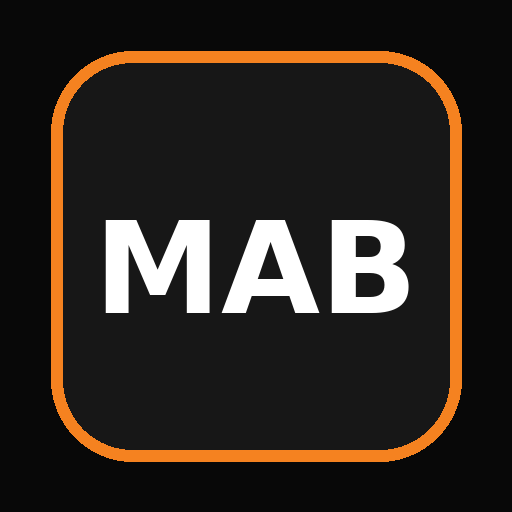
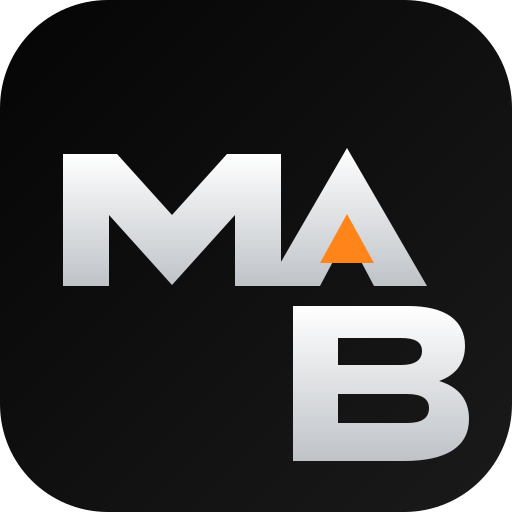
Add files via upload

diff --git a/mab-treino-v300.js b/mab-treino-v300.js
@@ -1,0 +1,201 @@
+import { repo } from './repositories.js';
+const VERSION = '2.10.0';
+const sleep = ms => new Promise(r => setTimeout(r, ms));
+async function getWorkoutContext(){const sessions=await repo.all('workoutSessions');const current=sessions.find(s=>s.status==='in_progress');if(!current)return null;const items=(await repo.all('planItems')).filter(x=>x.cycleId===current.cycleId&&x.groupCode===current.groupCode&&x.active).sort((a,b)=>a.order-b.order);const exercises=await repo.all('exercises');const index=Math.min(current.currentIndex||0,Math.max(items.length-1,0));const item=items[index];if(!item)return{current,items,exercises,index,item:null};return{current,items,exercises,index,item};}
+async function getPreviousSeries(context){const{current,item}=context;if(!item)return[];const sessions=(await repo.all('workoutSessions')).filter(s=>s.status==='completed'&&s.id!==current.id&&s.groupCode===current.groupCode).sort((a,b)=>(b.finishedAt||b.startedAt||'').localeCompare(a.finishedAt||a.startedAt||''));const sets=await repo.all('executedSets');for(const session of sessions){const match=sets.filter(s=>s.sessionId===session.id&&s.exerciseId===item.exerciseId&&s.completed).sort((a,b)=>a.setNumber-b.setNumber);if(match.length)return match;}return[];}
+function escapeHtml(value){return String(value).replace(/[&<>'"]/g,c=>({'&':'&amp;','<':'&lt;','>':'&gt;',"'":'&#39;','"':'&quot;'}[c]));}
+function insertVideoLink(context){const ex=context.exercises.find(e=>e.id===context.item.exerciseId);document.querySelector('#mabExerciseVideo')?.remove();if(!ex?.videoUrl)return;const h2=[...document.querySelectorAll('h2')].find(x=>x.textContent.trim()===ex.name);if(!h2)return;const a=document.createElement('a');a.id='mabExerciseVideo';a.href=ex.videoUrl;a.target='_blank';a.rel='noopener noreferrer';a.textContent='▶ Ver execução';a.style.cssText='display:inline-flex;margin-top:8px;color:#ff851b;font-weight:700;text-decoration:none;font-size:16px;';h2.insertAdjacentElement('afterend',a);}
+function ensureInfoArea(nextButton){let area=document.querySelector('#mabNextExerciseInfo');if(!area){area=document.createElement('div');area.id='mabNextExerciseInfo';area.className='mab-next-exercise';nextButton.parentElement?.insertBefore(area,nextButton);}return area;}
+function ensureV293Styles(){if(document.querySelector('#mabV293Styles'))return;const style=document.createElement('style');style.id='mabV293Styles';style.textContent=`
+.set-row{display:grid!important;grid-template-columns:72px minmax(0,1fr) minmax(0,1fr) minmax(0,1fr) 108px;column-gap:10px;row-gap:8px;align-items:end}
+.set-row>strong{grid-column:1;grid-row:1;align-self:center}
+.set-row>label:nth-of-type(1){grid-column:2;grid-row:1}
+.set-row>label:nth-of-type(2){grid-column:3;grid-row:1}
+.set-row>label:nth-of-type(3){grid-column:4;grid-row:1}
+.set-row>.done{grid-column:5;grid-row:1;align-self:end}
+.mab-previous-row{grid-column:1/-1;display:grid;grid-template-columns:72px minmax(0,1fr) minmax(0,1fr) minmax(0,1fr) 108px;column-gap:10px;align-items:center;padding:2px 0 8px;color:#aaa;font-size:14px}
+.mab-previous-row .mab-label{font-size:12px;text-transform:uppercase;letter-spacing:.04em}
+.mab-previous-row .mab-value{text-align:center;font-weight:700;color:#d0d0d0}
+@media(max-width:540px){.set-row,.mab-previous-row{grid-template-columns:64px minmax(0,1fr) minmax(0,1fr) minmax(0,1fr) 72px;column-gap:8px}.set-row input{width:100%;min-width:0}.set-row>.done{width:72px;min-width:72px}.mab-previous-row{font-size:13px}}
+`;document.head.appendChild(style);}
+async function enhanceWorkout(){if(!document.querySelector('[data-action="save-set"]'))return;ensureV293Styles();const context=await getWorkoutContext();if(!context?.item)return;const{items,exercises,index}=context;insertVideoLink(context);const previous=await getPreviousSeries(context);const savedCurrent=(await repo.all('executedSets')).filter(s=>s.sessionId===context.current.id&&s.exerciseId===context.item.exerciseId);document.querySelectorAll('.set-row').forEach((row,rowIndex)=>{const seriesNumber=rowIndex+1;const alreadySaved=savedCurrent.some(s=>s.setNumber===seriesNumber&&s.completed);const prior=previous.find(s=>s.setNumber===seriesNumber);const kg=row.querySelector('[data-set="weight"]');const reps=row.querySelector('[data-set="reps"]');const rir=row.querySelector('[data-set="rir"]');[kg,reps,rir].forEach(input=>{if(input)input.style.fontSize='16px';});row.querySelector('.mab-load-reference')?.remove();row.querySelector('.mab-previous-row')?.remove();if(prior){const ref=document.createElement('div');ref.className='mab-previous-row';ref.setAttribute('aria-label',`Execução anterior da série ${seriesNumber}`);ref.innerHTML=`<span class="mab-label">Anterior</span><span class="mab-value">${escapeHtml(prior.reps??'-')}</span><span class="mab-value">${escapeHtml(prior.weight??'-')}</span><span class="mab-value">${escapeHtml(prior.rir??'-')}</span><span></span>`;row.appendChild(ref);}if(alreadySaved)row.classList.add('mab-series-saved');else row.classList.remove('mab-series-saved');});const nextButton=document.querySelector('[data-action="next"]');if(!nextButton)return;const isLast=index>=items.length-1;const info=ensureInfoArea(nextButton);if(isLast){nextButton.hidden=true;info.hidden=true;info.innerHTML='';}else{nextButton.hidden=false;info.hidden=false;const nextItem=items[index+1];const nextExercise=exercises.find(e=>e.id===nextItem?.exerciseId);nextButton.disabled=false;nextButton.textContent='Próximo →';nextButton.removeAttribute('aria-disabled');info.innerHTML=`<span class="muted">A seguir</span><strong>${escapeHtml(nextExercise?.name||'Próximo exercício')}</strong>`;}}
+function restoreViewport(){const active=document.activeElement;if(active&&typeof active.blur==='function')active.blur();document.body.style.zoom='1';document.documentElement.style.zoom='1';window.scrollTo({top:Math.max(0,window.scrollY-1),behavior:'smooth'});}
+document.addEventListener('click',async event=>{const save=event.target.closest('[data-action="save-set"]');if(!save)return;await sleep(120);restoreViewport();await sleep(180);await enhanceWorkout();},true);
+const observer=new MutationObserver(()=>{clearTimeout(window.__mabV293Timer);window.__mabV293Timer=setTimeout(()=>enhanceWorkout().catch(console.error),60);});observer.observe(document.querySelector('#app')||document.body,{childList:true,subtree:true});window.addEventListener('routechange',()=>setTimeout(()=>enhanceWorkout().catch(console.error),80));window.addEventListener('focus',()=>setTimeout(()=>enhanceWorkout().catch(console.error),80));document.documentElement.dataset.mabVersion=VERSION;setTimeout(()=>enhanceWorkout().catch(console.error),100);
+
+
+const SHORT_WORKOUT_SECONDS=300;
+async function deleteWorkoutSession(session){
+  const sets=(await repo.all('executedSets')).filter(x=>x.sessionId===session.id);
+  for(const set of sets)await repo.remove('executedSets',set.id);
+  const timers=(await repo.all('restTimers')).filter(x=>x.sessionId===session.id);
+  for(const timer of timers)await repo.remove('restTimers',timer.id);
+  await repo.remove('workoutSessions',session.id);
+}
+function sessionSeconds(session){
+  const start=Date.parse(session.startedAt||'');
+  const end=Date.parse(session.finishedAt||new Date().toISOString());
+  return Number.isFinite(start)&&Number.isFinite(end)?Math.max(0,Math.floor((end-start)/1000)):0;
+}
+async function handleShortWorkoutFinish(event){
+  const button=event.target.closest('[data-action="finish"]');
+  if(!button)return;
+  const session=(await repo.all('workoutSessions')).find(x=>x.status==='in_progress');
+  if(!session||sessionSeconds(session)>=SHORT_WORKOUT_SECONDS)return;
+  event.preventDefault();event.stopPropagation();event.stopImmediatePropagation();
+  const seconds=sessionSeconds(session);
+  const keep=confirm(`Este treino teve apenas ${fmtShort(seconds)}. Deseja manter o registro?\n\nOK = manter\nCancelar = apagar o treino iniciado por engano`);
+  if(keep){
+    session.status='completed';session.finishedAt=new Date().toISOString();
+    await repo.put('workoutSessions',session);
+  }else{
+    await deleteWorkoutSession(session);
+  }
+  document.querySelector('.bottom-nav [data-route="dashboard"]')?.click();
+}
+function fmtShort(total){const m=Math.floor(total/60),s=total%60;return `${String(m).padStart(2,'0')}:${String(s).padStart(2,'0')}`;}
+async function enhanceShortWorkoutHistory(){
+  if(!document.querySelector('.dashboard-layout'))return;
+  const sessions=(await repo.all('workoutSessions')).filter(x=>x.status==='completed'&&sessionSeconds(x)<SHORT_WORKOUT_SECONDS).sort((a,b)=>(b.startedAt||'').localeCompare(a.startedAt||''));
+  const rows=[...document.querySelectorAll('.dashboard-layout .exercise-item')];
+  for(const row of rows){
+    if(row.querySelector('.mab-delete-short'))continue;
+    const title=row.querySelector('strong')?.textContent||'';
+    const detail=row.querySelector('.muted')?.textContent||'';
+    const group=(title.match(/Treino\s+([A-D])/i)||[])[1];
+    const date=(detail.match(/\d{4}-\d{2}-\d{2}/)||[])[0];
+    const duration=(detail.match(/(\d{2}):(\d{2})/)||[]);
+    if(!group||!date||!duration)continue;
+    const seconds=Number(duration[1])*60+Number(duration[2]);
+    if(seconds>=SHORT_WORKOUT_SECONDS)continue;
+    const session=sessions.find(x=>x.groupCode===group.toUpperCase()&&(x.startedAt||'').slice(0,10)===date&&Math.abs(sessionSeconds(x)-seconds)<=1);
+    if(!session)continue;
+    row.querySelector('.orange')?.remove();
+    const button=document.createElement('button');
+    button.className='ghost mab-delete-short';button.textContent='Apagar';button.dataset.sessionId=session.id;
+    button.setAttribute('aria-label',`Apagar Treino ${group} de ${date}`);
+    row.appendChild(button);
+  }
+}
+// v2.10.1: listener antigo desativado; finalizacao e tratada pelo resumo pos-treino
+// document.addEventListener('click',handleShortWorkoutFinish,true);
+document.addEventListener('click',async event=>{
+  const button=event.target.closest('.mab-delete-short');if(!button)return;
+  event.preventDefault();event.stopPropagation();
+  const session=await repo.get('workoutSessions',button.dataset.sessionId);if(!session)return;
+  if(!confirm(`Apagar definitivamente este Treino ${session.groupCode} de ${fmtShort(sessionSeconds(session))}?`))return;
+  await deleteWorkoutSession(session);
+  button.closest('.exercise-item')?.remove();
+  window.dispatchEvent(new Event('routechange'));
+},true);
+const shortHistoryObserver=new MutationObserver(()=>{clearTimeout(window.__mabShortHistoryTimer);window.__mabShortHistoryTimer=setTimeout(()=>enhanceShortWorkoutHistory().catch(console.error),100);});
+shortHistoryObserver.observe(document.querySelector('#app')||document.body,{childList:true,subtree:true});
+setTimeout(()=>enhanceShortWorkoutHistory().catch(console.error),150);
+
+// v2.10.0 - fechamento inteligente, perfil e calorias editaveis
+const MAB_V2100='3.0.0';
+const PROFILE_KEY='mab-physical-profile-v2100';
+const FINISH_PATCH='mab-finish-v2100';
+function loadPhysicalProfile(){try{return JSON.parse(localStorage.getItem(PROFILE_KEY)||'{}')}catch{return {}}}
+function savePhysicalProfile(p){localStorage.setItem(PROFILE_KEY,JSON.stringify(p))}
+async function currentWeight(){const rows=(await repo.all('bodyAssessments')).filter(x=>x.weight!=null&&x.date).sort((a,b)=>b.date.localeCompare(a.date));return Number(rows[0]?.weight)||null}
+function workoutMET(){return 5.0}
+function estimateCalories(weight,seconds){if(!weight||!seconds)return null;return Math.round(workoutMET()*weight*(seconds/3600))}
+function closeSummaryModal(){document.querySelector('#mabFinishOverlay')?.remove()}
+async function saveWorkoutSummary(session){const caloriesEl=document.querySelector('#mabFinishCalories');const sourceEl=document.querySelector('#mabFinishSource');const notesEl=document.querySelector('#mabFinishNotes');const estimated=Number(document.querySelector('#mabEstimatedCalories')?.dataset.value)||null;session.estimatedCalories=estimated;session.calories=caloriesEl?.value?Number(caloriesEl.value):null;session.calorieSource=sourceEl?.value||'Estimativa MAB';session.calorieMethod='MET 5.0 x peso x duracao';session.notes=(notesEl?.value||'').trim();session.status='completed';session.finishedAt=session.finishedAt||new Date().toISOString();await repo.put('workoutSessions',session);closeSummaryModal();document.querySelector('.bottom-nav [data-route="dashboard"]')?.click();}
+async function openWorkoutSummary(session){if(document.querySelector('#mabFinishOverlay'))return;session.finishedAt=session.finishedAt||new Date().toISOString();const weight=await currentWeight();const seconds=sessionSeconds(session);const estimated=estimateCalories(weight,seconds);const overlay=document.createElement('div');overlay.id='mabFinishOverlay';overlay.style.cssText='position:fixed;inset:0;z-index:9999;background:rgba(0,0,0,.82);display:flex;align-items:flex-end;justify-content:center;padding:16px;box-sizing:border-box';overlay.innerHTML=`<div style="width:min(620px,100%);max-height:90vh;overflow:auto;background:#151515;border:1px solid #3a3a3a;border-radius:22px;padding:20px;color:#fff;box-sizing:border-box"><div style="color:#ff851b;font-size:13px;font-weight:800;letter-spacing:.08em">TREINO CONCLUÍDO</div><h2 style="margin:6px 0 4px">Treino ${escapeHtml(session.groupCode||'')}</h2><div style="color:#aaa;margin-bottom:18px">Duração: ${fmtShort(seconds)}${weight?` · Peso de referência: ${weight} kg`:''}</div><div style="background:#0d0d0d;border:1px solid #333;border-radius:16px;padding:16px;margin-bottom:14px"><div style="color:#aaa;font-size:13px">Estimativa MAB</div><strong id="mabEstimatedCalories" data-value="${estimated||''}" style="display:block;font-size:28px;color:#ff851b;margin:4px 0">${estimated?`≈ ${estimated} kcal`:'Sem peso atual para estimar'}</strong><small style="color:#888">Estimativa inicial por MET, peso atual e duração. O valor abaixo pode ser substituído pelo wearable.</small></div><label style="display:block;margin:12px 0 6px;color:#bbb">Calorias registradas</label><div style="display:flex;gap:8px;align-items:center"><input id="mabFinishCalories" inputmode="numeric" type="number" min="0" max="10000" value="${estimated||''}" style="flex:1;background:#0d0d0d;color:#fff;border:1px solid #444;border-radius:12px;padding:14px;font-size:16px"><span>kcal</span></div><label style="display:block;margin:14px 0 6px;color:#bbb">Fonte</label><select id="mabFinishSource" style="width:100%;background:#0d0d0d;color:#fff;border:1px solid #444;border-radius:12px;padding:14px;font-size:16px"><option>Estimativa MAB</option><option>Apple Watch</option><option>Polar</option><option>Garmin</option><option>Outro</option></select><label style="display:block;margin:14px 0 6px;color:#bbb">Observações do treino</label><textarea id="mabFinishNotes" rows="4" placeholder="Opcional" style="width:100%;box-sizing:border-box;background:#0d0d0d;color:#fff;border:1px solid #444;border-radius:12px;padding:14px;font-size:16px"></textarea><button id="mabSaveFinish" style="width:100%;margin-top:16px;background:#ff851b;color:#080808;border:0;border-radius:14px;padding:15px;font-size:16px;font-weight:800">Salvar e concluir</button></div>`;document.body.appendChild(overlay);document.querySelector('#mabSaveFinish').onclick=()=>saveWorkoutSummary(session).catch(console.error)}
+async function isLastSeriesComplete(){const ctx=await getWorkoutContext();if(!ctx?.item||ctx.index!==ctx.items.length-1)return false;const sets=(await repo.all('executedSets')).filter(x=>x.sessionId===ctx.current.id&&x.exerciseId===ctx.item.exerciseId&&x.completed);return sets.length>=Number(ctx.item.sets||0)}
+async function maybeFinishAfterRestLegacy(){const session=(await repo.all('workoutSessions')).find(x=>x.status==='in_progress');if(!session)return false;if(!(await isLastSeriesComplete()))return false;const running=(await repo.all('restTimers')).find(x=>x.sessionId===session.id&&x.status==='running');if(running&&remaining(running.targetEndAt)>0)return false;if(running){running.status='completed';await repo.put('restTimers',running)}await openWorkoutSummary(session);return true}
+setInterval(()=>{if(document.querySelector('#mabFinishOverlay'))return;maybeFinishAfterRest().catch(()=>{})},1000);
+document.addEventListener('click',async e=>{const b=e.target.closest('[data-action="skip-rest"]');if(!b)return;setTimeout(()=>maybeFinishAfterRest().catch(()=>{}),80)},true);
+// intercepta finalizar normal e preserva regra de treino curto
+ document.addEventListener('click',async e=>{const b=e.target.closest('[data-action="finish"]');if(!b||b.dataset[FINISH_PATCH])return;const session=(await repo.all('workoutSessions')).find(x=>x.status==='in_progress');if(!session)return;e.preventDefault();e.stopPropagation();e.stopImmediatePropagation();const seconds=sessionSeconds(session);if(seconds<SHORT_WORKOUT_SECONDS){const keep=confirm(`Este treino teve apenas ${fmtShort(seconds)}. Deseja manter o registro?\n\nOK = manter\nCancelar = apagar o treino iniciado por engano`);if(!keep){await deleteWorkoutSession(session);document.querySelector('.bottom-nav [data-route="dashboard"]')?.click();return}}await openWorkoutSummary(session)},true);
+function enhanceSettingsProfile(){const modal=document.querySelector('#modalContent');if(!modal||!modal.querySelector('#exportBtn')||modal.querySelector('#mabProfileSection'))return;const p=loadPhysicalProfile();const block=document.createElement('div');block.id='mabProfileSection';block.className='stack';block.innerHTML=`<hr style="border-color:#333;width:100%"><h3>Perfil físico</h3><p class="muted">Usado como base para futuras estimativas. O peso vem da avaliação corporal mais recente.</p><label class="field">Data de nascimento<input id="mabBirthDate" type="date" value="${escapeHtml(p.birthDate||'')}"></label><label class="field">Altura (cm)<input id="mabHeight" type="number" inputmode="numeric" min="100" max="250" value="${escapeHtml(p.heightCm||'')}"></label><label class="field">Sexo para cálculo fisiológico<select id="mabSex"><option value="">Não informado</option><option value="female" ${p.sex==='female'?'selected':''}>Feminino</option><option value="male" ${p.sex==='male'?'selected':''}>Masculino</option></select></label><button class="secondary" id="mabSaveProfile">Salvar perfil</button>`;modal.querySelector('.stack')?.appendChild(block);block.querySelector('#mabSaveProfile').onclick=()=>{savePhysicalProfile({birthDate:block.querySelector('#mabBirthDate').value,heightCm:Number(block.querySelector('#mabHeight').value)||null,sex:block.querySelector('#mabSex').value});block.querySelector('#mabSaveProfile').textContent='Perfil salvo ✓';setTimeout(()=>block.querySelector('#mabSaveProfile')&&(block.querySelector('#mabSaveProfile').textContent='Salvar perfil'),1200)}}
+const profileObserver=new MutationObserver(()=>setTimeout(enhanceSettingsProfile,30));profileObserver.observe(document.querySelector('#modal')||document.body,{childList:true,subtree:true});
+async function enhanceDashboardCalories(){if(!document.querySelector('.dashboard-layout'))return;const sessions=(await repo.all('workoutSessions')).filter(x=>x.status==='completed'&&x.calories!=null);const rows=[...document.querySelectorAll('.dashboard-layout .exercise-item')];for(const row of rows){if(row.dataset.mabCalories==='1')continue;const title=row.querySelector('strong')?.textContent||'';if(!title.includes('Musculação'))continue;const detail=row.querySelector('.muted');if(!detail)continue;const group=(title.match(/Treino\s+([A-D])/i)||[])[1],date=(detail.textContent.match(/\d{4}-\d{2}-\d{2}/)||[])[0];const s=sessions.find(x=>x.groupCode===group&&(x.startedAt||'').slice(0,10)===date);if(s){detail.textContent+=` · ${s.calories} kcal`;row.dataset.mabCalories='1'}}}
+const kcalObserver=new MutationObserver(()=>{clearTimeout(window.__mabKcalTimer);window.__mabKcalTimer=setTimeout(()=>enhanceDashboardCalories().catch(()=>{}),100)});kcalObserver.observe(document.querySelector('#app')||document.body,{childList:true,subtree:true});
+document.documentElement.dataset.mabVersion=MAB_V2100;
+
+
+// v2.10.2 - classificacao dinamica do foco do proximo treino
+const LOWER_BODY_TERMS=['perna','pernas','quadríceps','quadriceps','posterior','isquiotib','glúte','glute','panturr','adutor','abdutor','coxa','femoral','hamstring','calf','leg'];
+const UPPER_BODY_TERMS=['peito','costas','ombro','ombros','bíceps','biceps','tríceps','triceps','dorsal','trapézio','trapezio','delto','braço','braco','antebraço','antebraco','chest','back','shoulder','arm'];
+function normalizeMuscleText(value){return String(value||'').normalize('NFD').replace(/[\u0300-\u036f]/g,'').toLowerCase()}
+function muscleRegion(value){const text=normalizeMuscleText(value);const lower=LOWER_BODY_TERMS.some(x=>text.includes(normalizeMuscleText(x)));const upper=UPPER_BODY_TERMS.some(x=>text.includes(normalizeMuscleText(x)));if(lower&&!upper)return 'lower';if(upper&&!lower)return 'upper';return 'other'}
+async function workoutFocusLabel(groupCode){
+  const cycle=(await repo.all('cycles')).find(x=>x.status==='active');if(!cycle)return '';
+  const items=(await repo.all('planItems')).filter(x=>x.cycleId===cycle.id&&x.groupCode===groupCode&&x.active);
+  const exercises=await repo.all('exercises');let upper=0,lower=0;
+  for(const item of items){const ex=exercises.find(x=>x.id===item.exerciseId);const region=muscleRegion(ex?.muscleGroup);if(region==='upper')upper++;if(region==='lower')lower++;}
+  if(lower>0&&upper===0)return 'Inferiores';
+  if(upper>0&&lower===0)return 'Superiores';
+  if(lower>upper)return 'Inferiores';
+  if(upper>lower)return 'Superiores';
+  if(lower&&upper)return 'Corpo inteiro';
+  return '';
+}
+async function enhanceNextWorkoutFocus(){
+  if(!document.querySelector('.dashboard-layout'))return;
+  const card=[...document.querySelectorAll('.dashboard-layout .card')].find(c=>c.textContent.includes('PRÓXIMO TREINO'));if(!card)return;
+  const h2=card.querySelector('h2');const start=card.querySelector('[data-action="start"]');if(!h2||!start)return;
+  const group=(start.dataset.group||(h2.textContent.match(/Treino\s+([A-D])/i)||[])[1]||'').toUpperCase();if(!group)return;
+  const focus=await workoutFocusLabel(group);h2.textContent=focus?`Treino ${group} · ${focus}`:`Treino ${group}`;
+}
+const focusObserver=new MutationObserver(()=>{clearTimeout(window.__mabFocusTimer);window.__mabFocusTimer=setTimeout(()=>enhanceNextWorkoutFocus().catch(()=>{}),90)});
+focusObserver.observe(document.querySelector('#app')||document.body,{childList:true,subtree:true});
+window.addEventListener('routechange',()=>setTimeout(()=>enhanceNextWorkoutFocus().catch(()=>{}),120));
+setTimeout(()=>enhanceNextWorkoutFocus().catch(()=>{}),180);
+
+
+// v2.10.3 - editar/excluir avaliacao corporal e alerta de variacao
+function assessmentEditorV2103(a){
+  const modal=document.querySelector('#modal'),content=document.querySelector('#modalContent');if(!modal||!content)return;
+  const val=v=>v==null?'':escapeHtml(v);
+  content.innerHTML=`<form id="mabAssessmentEdit" class="stack"><div class="row"><h2>Editar avaliação</h2><button type="button" class="ghost" data-close>✕</button></div><label class="field">Data<input name="date" type="date" required value="${val(a.date)}"></label><label class="field">Peso (kg)<input name="weight" inputmode="decimal" required value="${val(a.weight)}"></label><label class="field">Massa magra (kg)<input name="leanMass" inputmode="decimal" value="${val(a.leanMass)}"></label><label class="field">Massa gorda (kg)<input name="fatMass" inputmode="decimal" value="${val(a.fatMass)}"></label><label class="field">Gordura corporal (%)<input name="bodyFat" inputmode="decimal" value="${val(a.bodyFat)}"></label><label class="field">Circunferência abdominal (cm)<input name="waistCm" inputmode="decimal" value="${val(a.waistCm)}"></label><button class="primary">Salvar alterações</button><button type="button" class="danger" id="mabDeleteAssessment">Excluir avaliação</button></form>`;
+  modal.showModal();content.querySelector('[data-close]').onclick=()=>modal.close();
+  content.querySelector('#mabDeleteAssessment').onclick=async()=>{if(!confirm('Excluir esta avaliação corporal? Ela será removida do histórico e dos gráficos.'))return;await repo.remove('bodyAssessments',a.id);modal.close();window.dispatchEvent(new Event('routechange'));};
+  content.querySelector('form').onsubmit=async ev=>{ev.preventDefault();const f=new FormData(ev.target);const parse=v=>{const s=String(v||'').trim().replace(',','.');return s===''?null:Number(s)};const newWeight=parse(f.get('weight'));const rows=(await repo.all('bodyAssessments')).filter(x=>x.id!==a.id&&x.weight!=null&&x.date<=f.get('date')).sort((x,y)=>y.date.localeCompare(x.date));const prior=rows[0];if(prior&&newWeight!=null&&Math.abs(newWeight-Number(prior.weight))>=10){const diff=Math.abs(newWeight-Number(prior.weight)).toFixed(1);if(!confirm(`Atenção: o peso informado varia ${diff} kg em relação à avaliação anterior (${prior.weight} kg).\n\nOK = salvar mesmo assim\nCancelar = revisar o valor`))return;}await repo.put('bodyAssessments',{...a,date:f.get('date'),weight:newWeight,leanMass:parse(f.get('leanMass')),fatMass:parse(f.get('fatMass')),bodyFat:parse(f.get('bodyFat')),waistCm:parse(f.get('waistCm')),updatedAt:new Date().toISOString()});modal.close();window.dispatchEvent(new Event('routechange'));};
+}
+async function enhanceAssessmentHistoryV2103(){
+  if(!document.querySelector('#bodyChart'))return;const assessments=(await repo.all('bodyAssessments')).sort((a,b)=>b.date.localeCompare(a.date));const cards=[...document.querySelectorAll('#app .card')];const history=cards.find(c=>c.querySelector('h3')?.textContent.trim()==='Histórico corporal');if(!history)return;
+  const rows=[...history.querySelectorAll('.exercise-item')];for(const row of rows){if(row.querySelector('.mab-assessment-actions'))continue;const date=(row.querySelector('.muted')?.textContent.match(/\d{4}-\d{2}-\d{2}/)||[])[0];const weightText=row.querySelector('strong')?.textContent||'';const weight=Number((weightText.match(/[\d.,]+/)||[])[0]?.replace(',','.'));const a=assessments.find(x=>x.date===date&&(Number.isNaN(weight)||Math.abs(Number(x.weight)-weight)<0.01));if(!a)continue;const actions=document.createElement('div');actions.className='row mab-assessment-actions';actions.innerHTML=`<button class="ghost" data-mab-edit-assessment="${a.id}">Editar</button><button class="danger" data-mab-delete-assessment="${a.id}">Excluir</button>`;row.appendChild(actions);}
+}
+document.addEventListener('click',async e=>{const edit=e.target.closest('[data-mab-edit-assessment]');if(edit){e.preventDefault();const a=await repo.get('bodyAssessments',edit.dataset.mabEditAssessment);if(a)assessmentEditorV2103(a);return}const del=e.target.closest('[data-mab-delete-assessment]');if(del){e.preventDefault();const a=await repo.get('bodyAssessments',del.dataset.mabDeleteAssessment);if(!a)return;if(!confirm('Excluir esta avaliação corporal? Ela será removida do histórico e dos gráficos.'))return;await repo.remove('bodyAssessments',a.id);window.dispatchEvent(new Event('routechange'));}},true);
+const assessmentObserverV2103=new MutationObserver(()=>{clearTimeout(window.__mabAssessmentTimer);window.__mabAssessmentTimer=setTimeout(()=>enhanceAssessmentHistoryV2103().catch(()=>{}),120)});assessmentObserverV2103.observe(document.querySelector('#app')||document.body,{childList:true,subtree:true});
+window.addEventListener('routechange',()=>setTimeout(()=>enhanceAssessmentHistoryV2103().catch(()=>{}),150));
+setTimeout(()=>enhanceAssessmentHistoryV2103().catch(()=>{}),200);
+// alerta preventivo também para novas avaliações: observa o formulário nativo e confirma antes do submit quando possível
+function attachNewAssessmentWarningV2103(){const form=document.querySelector('#assessmentForm');if(!form||form.dataset.mabWarning==='1')return;form.dataset.mabWarning='1';form.addEventListener('submit',async e=>{if(form.dataset.mabApproved==='1'){form.dataset.mabApproved='0';return}const input=form.querySelector('[name="weight"]');const date=form.querySelector('[name="date"]')?.value;if(!input||!date)return;const w=Number(String(input.value).replace(',','.'));const rows=(await repo.all('bodyAssessments')).filter(x=>x.weight!=null&&x.date<=date).sort((a,b)=>b.date.localeCompare(a.date));const prior=rows[0];if(prior&&Number.isFinite(w)&&Math.abs(w-Number(prior.weight))>=10){e.preventDefault();e.stopImmediatePropagation();const diff=Math.abs(w-Number(prior.weight)).toFixed(1);if(confirm(`Atenção: o peso informado varia ${diff} kg em relação à última avaliação (${prior.weight} kg).\n\nOK = salvar mesmo assim\nCancelar = revisar o valor`)){form.dataset.mabApproved='1';form.requestSubmit();}}},true)}
+const formObserverV2103=new MutationObserver(()=>attachNewAssessmentWarningV2103());formObserverV2103.observe(document.querySelector('#modal')||document.body,{childList:true,subtree:true});
+
+
+// v3.0.0 - navegacao flexivel e avanco automatico entre exercicios
+function ensureV2110Styles(){if(document.querySelector('#mabV2110Styles'))return;const s=document.createElement('style');s.id='mabV2110Styles';s.textContent=`
+#mabExerciseNavigator{display:grid;gap:8px;margin:12px 0 0}
+.mab-exercise-nav-item{display:grid;grid-template-columns:28px minmax(0,1fr) auto;gap:10px;align-items:center;width:100%;text-align:left;background:#101010;color:#fff;border:1px solid #353535;border-radius:12px;padding:11px 12px;font-size:14px}
+.mab-exercise-nav-item.current{border-color:#ff851b;background:#1b130b}
+.mab-exercise-nav-item.completed{border-color:#31553b}
+.mab-exercise-nav-item.partial{border-color:#8a681f}
+.mab-exercise-nav-item .state{color:#aaa;font-size:12px}.mab-exercise-nav-item.current .state{color:#ff851b}
+`;document.head.appendChild(s)}
+async function workoutProgressV2110(){const ctx=await getWorkoutContext();if(!ctx)return null;const sets=await repo.all('executedSets');const progress=ctx.items.map((item,index)=>{const done=sets.filter(x=>x.sessionId===ctx.current.id&&x.exerciseId===item.exerciseId&&x.completed).length;const planned=Number(item.sets||0);return{item,index,done,planned,complete:planned>0&&done>=planned,partial:done>0&&done<planned,exercise:ctx.exercises.find(e=>e.id===item.exerciseId)}});return{...ctx,progress}}
+async function renderExerciseNavigatorV2110(){if(!document.querySelector('[data-action="save-set"]'))return;ensureV2110Styles();const data=await workoutProgressV2110();if(!data)return;let nav=document.querySelector('#mabExerciseNavigator');if(!nav){nav=document.createElement('div');nav.id='mabExerciseNavigator';const workoutCards=[...document.querySelectorAll('#app .card')];const exerciseCard=workoutCards.find(c=>c.querySelector('[data-action="save-set"]'));if(!exerciseCard)return;const title=document.createElement('div');title.innerHTML='<div class="muted" style="margin-top:14px">EXERCÍCIOS DO TREINO</div>';exerciseCard.appendChild(title);exerciseCard.appendChild(nav)}nav.innerHTML=data.progress.map(p=>{const state=p.index===data.index?'Atual':p.complete?'Concluído':p.partial?'Parcial':'Pendente';const icon=p.index===data.index?'▶':p.complete?'✓':p.partial?'◐':'○';const cls=p.index===data.index?'current':p.complete?'completed':p.partial?'partial':'';return `<button class="mab-exercise-nav-item ${cls}" data-mab-exercise-index="${p.index}"><span>${icon}</span><strong>${escapeHtml(p.exercise?.name||'Exercício')}</strong><span class="state">${state} · ${p.done}/${p.planned}</span></button>`}).join('')}
+async function goToExerciseV2110(index){const session=(await repo.all('workoutSessions')).find(x=>x.status==='in_progress');if(!session)return;session.currentIndex=Math.max(0,Number(index)||0);session.mabAutoAdvancedAt=new Date().toISOString();await repo.put('workoutSessions',session);document.querySelector('.bottom-nav [data-route="workout"]')?.click();window.dispatchEvent(new Event('routechange'))}
+document.addEventListener('click',e=>{const b=e.target.closest('[data-mab-exercise-index]');if(!b)return;e.preventDefault();goToExerciseV2110(b.dataset.mabExerciseIndex).catch(console.error)},true);
+function recentFinishedRestV2110(timers,sessionId,exerciseId){return timers.filter(x=>x.sessionId===sessionId&&x.exerciseId===exerciseId&&['completed','cancelled'].includes(x.status)).sort((a,b)=>(b.targetEndAt||b.startedAt||'').localeCompare(a.targetEndAt||a.startedAt||''))[0]}
+async function maybeFinishAfterRest(){
+  if(document.querySelector('#mabFinishOverlay'))return false;
+  const data=await workoutProgressV2110();if(!data)return false;
+  const current=data.progress[data.index];if(!current?.complete)return false;
+  const timers=await repo.all('restTimers');const running=timers.find(x=>x.sessionId===data.current.id&&x.exerciseId===current.item.exerciseId&&x.status==='running');if(running&&remaining(running.targetEndAt)>0)return false;
+  if(running){running.status='completed';await repo.put('restTimers',running)}
+  const finished=running||recentFinishedRestV2110(timers,data.current.id,current.item.exerciseId);if(!finished)return false;
+  const marker=`${current.item.exerciseId}:${finished.id||finished.targetEndAt||finished.startedAt}`;if(data.current.mabLastAutoTransition===marker)return false;
+  const allComplete=data.progress.every(x=>x.complete);
+  if(allComplete){data.current.mabLastAutoTransition=marker;await repo.put('workoutSessions',data.current);await openWorkoutSummary(data.current);return true}
+  let next=null;for(let step=1;step<=data.progress.length;step++){const candidate=data.progress[(data.index+step)%data.progress.length];if(!candidate.complete){next=candidate;break}}
+  if(next){data.current.currentIndex=next.index;data.current.mabLastAutoTransition=marker;await repo.put('workoutSessions',data.current);document.querySelector('.bottom-nav [data-route="workout"]')?.click();window.dispatchEvent(new Event('routechange'));return true}
+  return false;
+}
+const navigatorObserverV2110=new MutationObserver(()=>{clearTimeout(window.__mabNavigatorTimer);window.__mabNavigatorTimer=setTimeout(()=>renderExerciseNavigatorV2110().catch(()=>{}),100)});navigatorObserverV2110.observe(document.querySelector('#app')||document.body,{childList:true,subtree:true});
+window.addEventListener('routechange',()=>setTimeout(()=>renderExerciseNavigatorV2110().catch(()=>{}),140));setTimeout(()=>renderExerciseNavigatorV2110().catch(()=>{}),180);

diff --git a/index.html b/index.html
@@ -6,15 +6,19 @@
   <meta name="theme-color" content="#080808">
   <meta name="apple-mobile-web-app-capable" content="yes">
   <meta name="apple-mobile-web-app-status-bar-style" content="black-translucent">
-  <meta name="apple-mobile-web-app-title" content="MAB Personal">
-  <link rel="manifest" href="manifest.webmanifest">
-  <link rel="apple-touch-icon" href="apple-touch-icon.png">
-  <link rel="stylesheet" href="styles.css">
-  <title>Controle de Treinos MAB Personal</title>
+  <meta name="apple-mobile-web-app-title" content="MAB Training">
+  <meta name="application-name" content="MAB Training">
+  <meta name="description" content="Treino, atividade e evolução em um só lugar.">
+  <link rel="manifest" href="manifest.webmanifest?v=3.0.0">
+  <link rel="apple-touch-icon" href="apple-touch-icon.png?v=3.0.0">
+  <link rel="icon" href="mab-icon.svg?v=3.0.0" type="image/svg+xml">
+  <link rel="stylesheet" href="styles.css?v=3.0.0">
+  <link rel="stylesheet" href="mab-brand-v300.css?v=3.0.0">
+  <title>MAB Training | Treino, Atividade e Evolução</title>
 </head>
 <body>
   <header class="topbar">
-    <div><small>CONTROLE DE TREINOS</small><h1>MAB Personal</h1></div>
+    <div><small>CONTROLE DE TREINOS</small><h1><strong>MAB</strong> <span>Training</span></h1></div>
     <button id="settingsBtn" class="icon-btn" aria-label="Configurações e dados">⚙</button>
   </header>
   <main id="app" tabindex="-1"></main>
@@ -28,8 +32,9 @@
   <dialog id="modal"><div id="modalContent"></div></dialog>
   <div id="toast" role="status" aria-live="polite"></div>
   <input id="importInput" type="file" accept="application/json,.json" hidden>
-  <script type="module" src="app.js?v=2.11.0"></script>
-  <script src="proximo-treino-v282.js?v=2.11.0" defer></script>
-  <script type="module" src="mab-treino-v2110.js?v=2.11.0"></script>
+  <script type="module" src="app.js?v=3.0.0"></script>
+  <script src="proximo-treino-v282.js?v=3.0.0" defer></script>
+  <script type="module" src="mab-treino-v300.js?v=3.0.0"></script>
+  <script src="mab-brand-v300.js?v=3.0.0" defer></script>
 </body>
 </html>

diff --git a/service-worker.js b/service-worker.js
@@ -1,19 +1,5 @@
-const CACHE='mab-personal-v2-11-0';
-const ASSETS=[
-  './',
-  './index.html',
-  './manifest.webmanifest',
-  './styles.css',
-  './app.js',
-  './repositories.js',
-  './router.js',
-  './timer-service.js',
-  './validators.js',
-  './backup-service.js',
-  './db.js',
-  './proximo-treino-v282.js',
-  './mab-treino-v2110.js'
-];
-self.addEventListener('install',event=>{event.waitUntil(caches.open(CACHE).then(cache=>cache.addAll(ASSETS)));self.skipWaiting();});
-self.addEventListener('activate',event=>{event.waitUntil(caches.keys().then(keys=>Promise.all(keys.filter(key=>key!==CACHE).map(key=>caches.delete(key)))));self.clients.claim();});
-self.addEventListener('fetch',event=>{if(event.request.method!=='GET')return;event.respondWith(fetch(event.request).then(response=>{const copy=response.clone();caches.open(CACHE).then(cache=>cache.put(event.request,copy));return response;}).catch(()=>caches.match(event.request)));});
+const CACHE='mab-training-v3-0-0';
+const ASSETS=['./','./index.html','./manifest.webmanifest','./styles.css','./mab-brand-v300.css','./mab-logo.svg','./mab-icon.svg','./apple-touch-icon.png','./icons/icon-192.png','./icons/icon-512.png','./app.js','./repositories.js','./router.js','./timer-service.js','./validators.js','./backup-service.js','./db.js','./proximo-treino-v282.js','./mab-treino-v300.js','./mab-brand-v300.js'];
+self.addEventListener('install',e=>{e.waitUntil(caches.open(CACHE).then(c=>c.addAll(ASSETS)));self.skipWaiting()});
+self.addEventListener('activate',e=>{e.waitUntil(caches.keys().then(keys=>Promise.all(keys.filter(k=>k!==CACHE).map(k=>caches.delete(k)))));self.clients.claim()});
+self.addEventListener('fetch',e=>{if(e.request.method!=='GET')return;e.respondWith(fetch(e.request).then(r=>{const copy=r.clone();caches.open(CACHE).then(c=>c.put(e.request,copy));return r}).catch(()=>caches.match(e.request)))});

diff --git a/mab-brand-v300.css b/mab-brand-v300.css
@@ -1,0 +1,13 @@
+:root{--mab-orange:#ff851b;--mab-black:#080808;--mab-graphite:#1a1a1a;--mab-white:#fff}
+body{background:radial-gradient(circle at 85% -10%,#222 0,#080808 38%,#050505 100%);color:var(--mab-white)}
+.topbar{background:rgba(8,8,8,.92);backdrop-filter:blur(18px);border-bottom:1px solid #2b2b2b}
+.topbar>div{display:grid;grid-template-columns:46px auto;column-gap:10px;align-items:center}
+.topbar>div:before{content:"";grid-row:1/3;width:46px;height:32px;background:url('./mab-logo.svg') center/contain no-repeat}
+.topbar small{color:var(--mab-orange);font-size:10px;letter-spacing:.12em}
+.topbar h1{font-size:20px;letter-spacing:.02em;margin:0}.topbar h1 strong{font-weight:800}.topbar h1 span{font-weight:400;color:#ddd}
+.primary,.done{background:var(--mab-orange)!important;color:#080808!important}.orange{color:var(--mab-orange)!important}
+.card{border-color:#303030;background:linear-gradient(145deg,#171717,#0e0e0e)}
+.bottom-nav{background:rgba(8,8,8,.96);border-top-color:#2b2b2b}.bottom-nav button.active{color:var(--mab-orange)}
+#mabBrandSplash{position:fixed;inset:0;z-index:20000;background:radial-gradient(circle at 50% 35%,#252525,#080808 58%,#030303);display:grid;place-items:center;transition:opacity .45s ease}
+#mabBrandSplash.hide{opacity:0;pointer-events:none}.mab-splash-inner{text-align:center;padding:32px}.mab-splash-inner img{width:min(76vw,420px)}.mab-splash-tagline{margin-top:22px;color:#ddd;letter-spacing:.32em;font-size:12px}.mab-splash-line{width:82px;height:3px;background:var(--mab-orange);margin:28px auto 0;border-radius:9px}
+.mab-version-badge{display:inline-block;margin-top:10px;color:#777;font-size:11px;letter-spacing:.12em}

diff --git a/mab-brand-v300.js b/mab-brand-v300.js
@@ -1,0 +1,12 @@
+const MAB_BRAND_VERSION='3.0.0';
+function applyMabBrand(){
+ document.title='MAB Training | Treino, Atividade e Evolução';
+ document.documentElement.dataset.mabVersion=MAB_BRAND_VERSION;
+ const h=document.querySelector('.topbar h1');if(h)h.innerHTML='<strong>MAB</strong> <span>Training</span>';
+ document.querySelectorAll('*').forEach(el=>{if(el.children.length===0&&el.textContent?.includes('MAB Personal'))el.textContent=el.textContent.replaceAll('MAB Personal','MAB Training')});
+ const settings=document.querySelector('#modalContent');if(settings?.querySelector('#exportBtn')&&!settings.querySelector('.mab-version-badge')){const b=document.createElement('div');b.className='mab-version-badge';b.textContent='MAB TRAINING · v3.0.0';settings.querySelector('.stack')?.appendChild(b)}
+}
+function showBrandSplash(){if(sessionStorage.getItem('mab-v300-splash'))return;const s=document.createElement('div');s.id='mabBrandSplash';s.innerHTML='<div class="mab-splash-inner"><img src="./mab-logo.svg" alt="MAB Training"><div class="mab-splash-tagline">TREINO · ATIVIDADE · EVOLUÇÃO</div><div class="mab-splash-line"></div></div>';document.body.appendChild(s);sessionStorage.setItem('mab-v300-splash','1');setTimeout(()=>{s.classList.add('hide');setTimeout(()=>s.remove(),500)},1500)}
+new MutationObserver(()=>applyMabBrand()).observe(document.body,{childList:true,subtree:true});
+window.addEventListener('routechange',()=>setTimeout(applyMabBrand,30));
+applyMabBrand();showBrandSplash();
